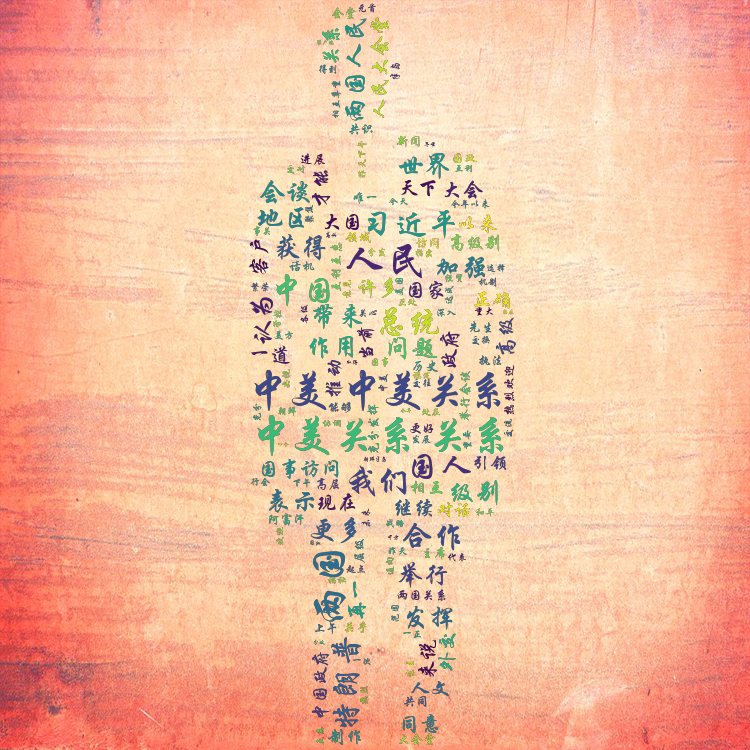
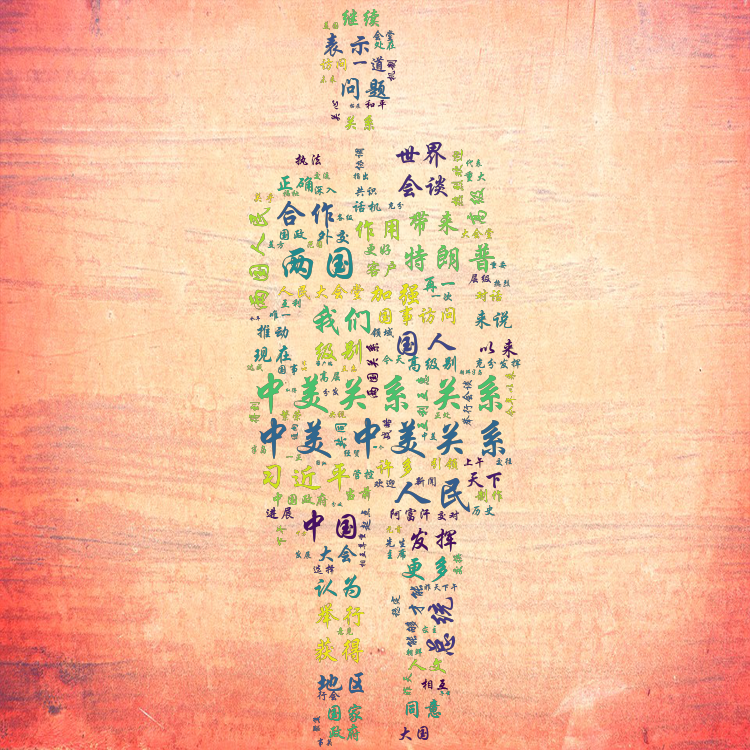
Support python script convert to exe format, can be running on windows OS

Changed region(s): [[0.3373, 0.0, 0.7053, 1.0]]

diff --git a/generate_wordcloud.py b/generate_wordcloud.py
@@ -7,7 +7,7 @@ import os
 import sys
 import jieba
 from PIL import Image
-from wordcloud import WordCloud
+from wordcloud import WordCloud, STOPWORDS
 import ConfigParser
 
 def get_config_from_file(config_file='config.ini'):
@@ -35,12 +35,12 @@ def generate_wordcloud(words_file, mask_pic=None, bg_pic=None, font_file=r'C:\Wi
     if mask_pic:
         #读入背景图片
         mask_pic = np.array(Image.open(mask_pic))
-        wordcloud = WordCloud(mask=mask_pic, background_color=None, scale=1.5, mode='RGBA', font_path=font_file).generate(word_split)
+        wordcloud = WordCloud(mask=mask_pic, background_color=None, scale=1.5, mode='RGBA', stopwords=STOPWORDS, font_path=font_file).generate(word_split)
         
     # Mode RGBA and background color None makes the background transparent, that way we can paste the resulting image
     # into another one, which will be the background
     else:
-        wordcloud = WordCloud(max_words=200,width = 1200,height=800, mode='RGBA', background_color=None, font_path=font_file).generate(word_split)
+        wordcloud = WordCloud(max_words=200,width = 1200,height=800, mode='RGBA', background_color=None, stopwords=STOPWORDS, font_path=font_file).generate(word_split)
     
 
     # 保存图片

diff --git a/convert_to_exe.py b/convert_to_exe.py
@@ -1,0 +1,6 @@
+import os
+
+os.system("pyinstaller --add-data C:\Python27\Lib\site-packages\wordcloud\stopwords;.\wordcloud -F -w generate_wordcloud.py")
+os.system("copy config.ini dist\config.ini")
+os.system("md dist\config")
+os.system("copy config\* dist\config")
